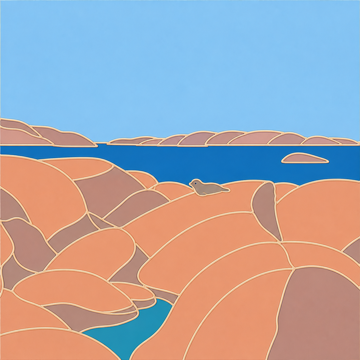
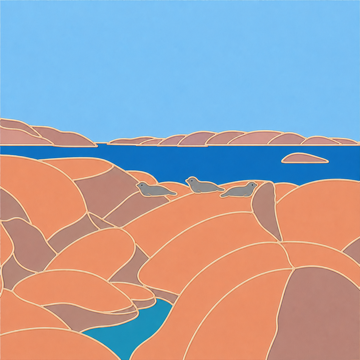
Add Vadvetjåkka artwork; refresh Kosterhavet
Ten of 31 parks now have final illustrations.

Changed region(s): [[0.5194, 0.4889, 0.7333, 0.55], [0.3667, 0.4889, 0.4889, 0.55]]

diff --git a/parkpass-web/src/data/parks.ts b/parkpass-web/src/data/parks.ts
@@ -530,4 +530,5 @@ export const PIN_ARTWORK = new Set<string>([
   "sarek",
   "tiveden",
   "tyresta",
+  "vadvetjakka",
 ]);
